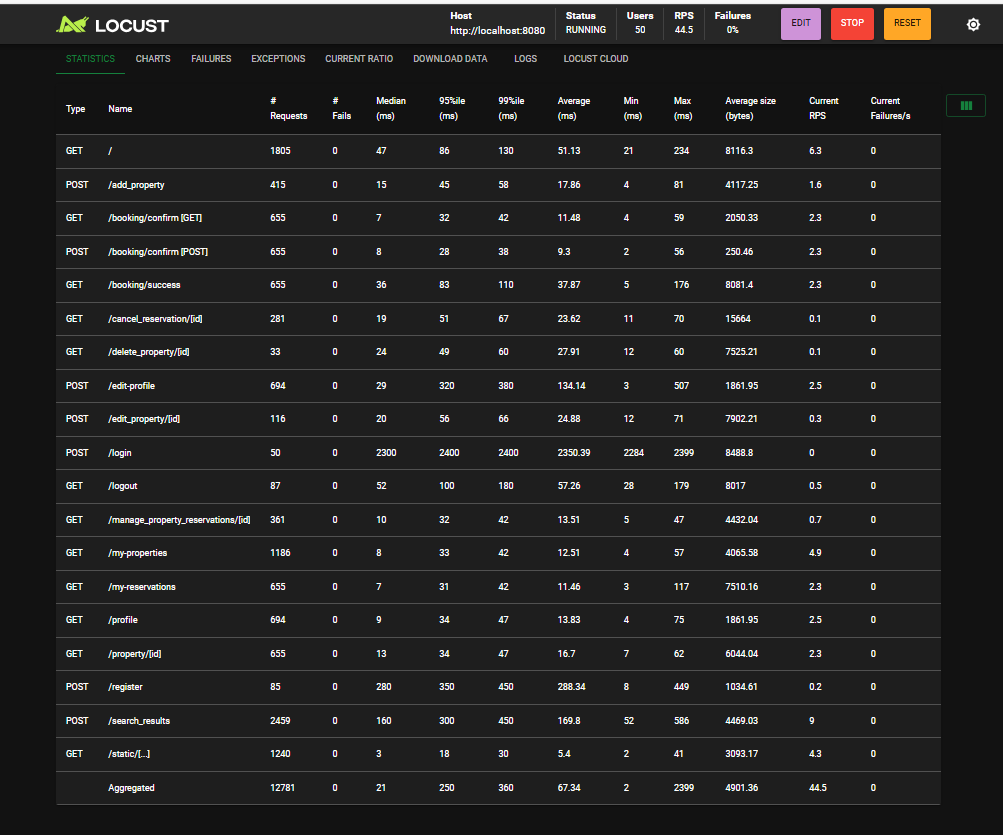
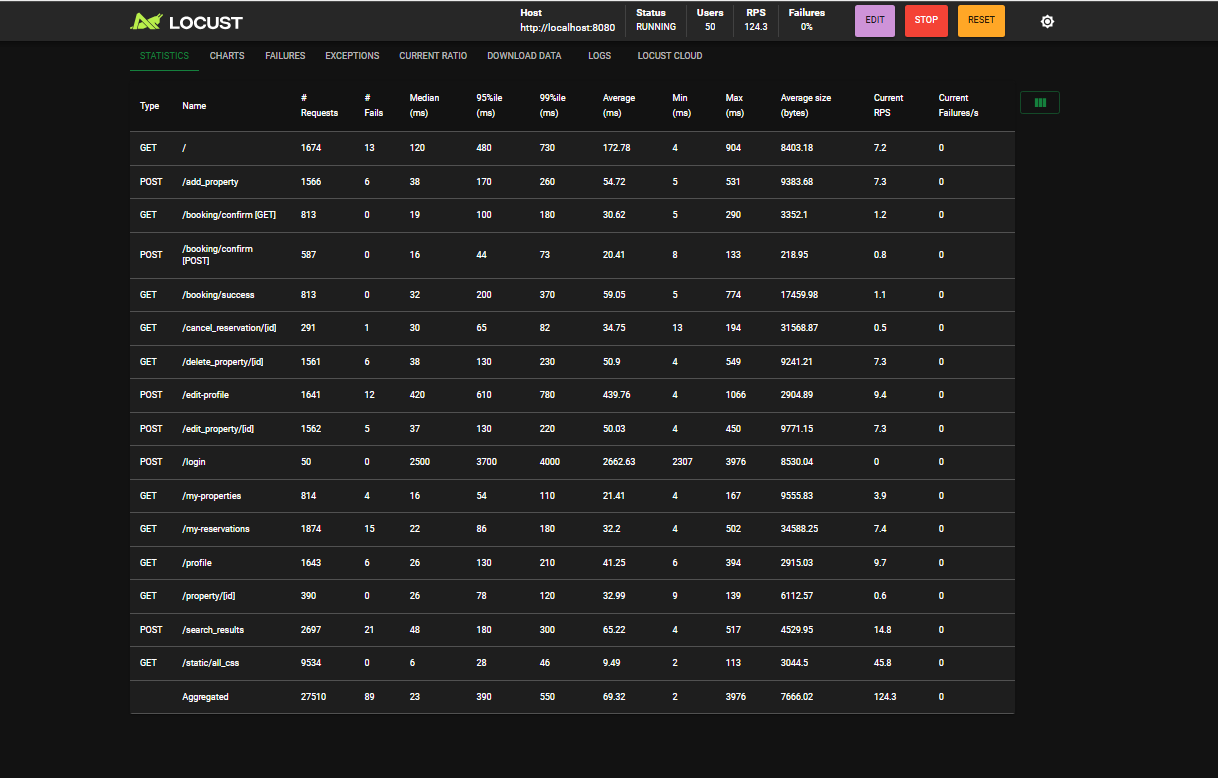
n

diff --git a/aaa/caz 1/app.py b/aaa/caz 1/app.py
@@ -815,5 +815,5 @@ def check_room_type_reservations(property_id, room_type_name_encoded):
         return jsonify({"can_delete_type_now": False, "message": f"Eroare la baza de date: {e}"}), 500
 
 if __name__ == '__main__':
-    serve(app, host='0.0.0.0', port=5000, threads=32)
+    serve(app, host='0.0.0.0', port=5000, threads=50)
     print(1)
